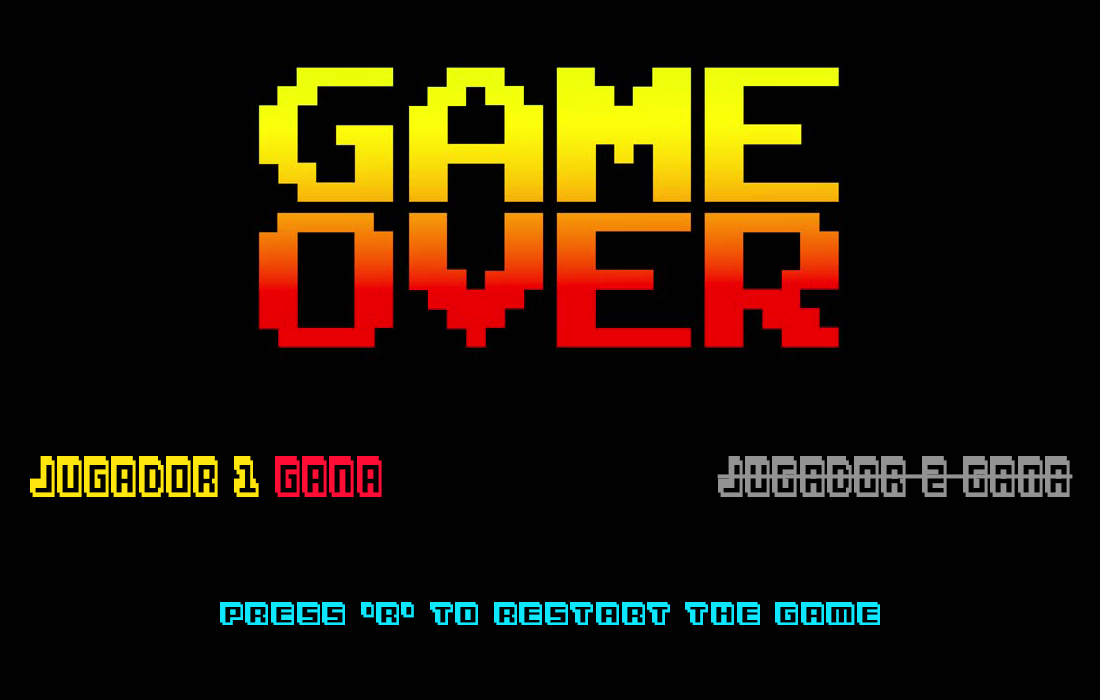
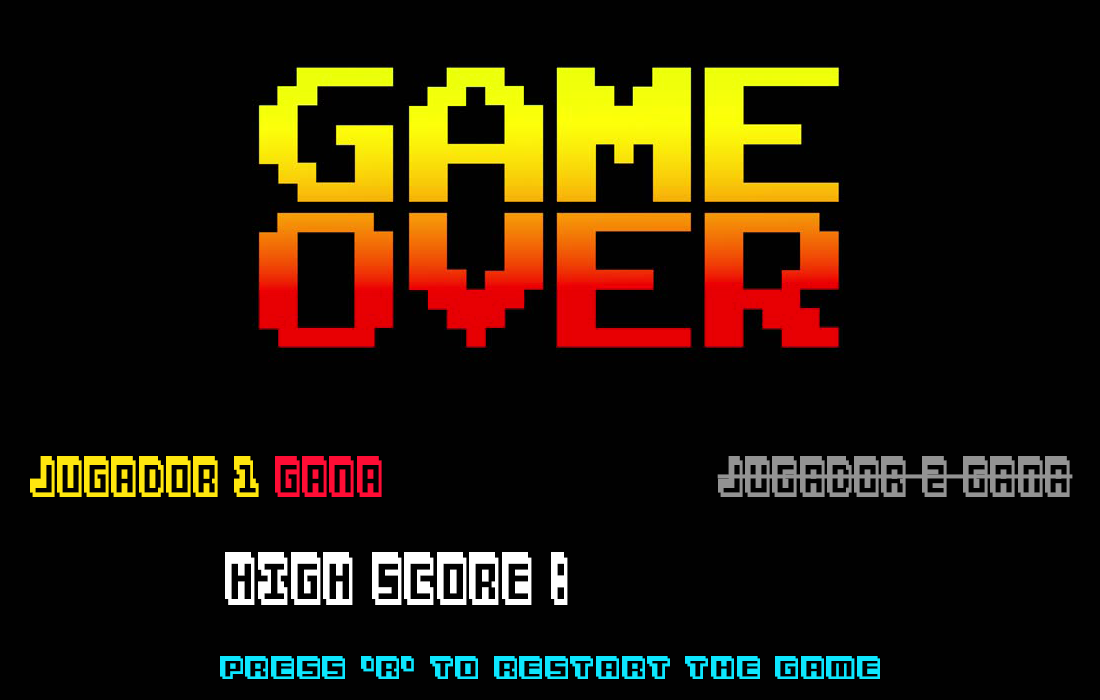
Añadidos High Scores
-Menú de mázimas puntuaciones
-Máxima puntuación al final del juego.

Changed region(s): [[0.1855, 0.78, 0.8036, 0.9], [0.1855, 0.93, 0.8036, 0.99]]

diff --git a/Sagitpawn's Code - Fase 1/menu.js b/Sagitpawn's Code - Fase 1/menu.js
@@ -32,7 +32,7 @@ var menuState = {
         });
         txt.events.onInputDown.add(this.start, this);       //Llamamos a la función start(), cuando clickamos en el texto
 
-        var txt2 = game.add.text(game.world.centerX, 430, 'Salir', optionStyle);
+        var txt2 = game.add.text(game.world.centerX, 400, 'High Scores', optionStyle);
         txt2.anchor.set(0.5);
         txt2.inputEnabled = true;
         txt2.events.onInputOver.add(function (target) {
@@ -41,18 +41,29 @@ var menuState = {
         txt2.events.onInputOut.add(function (target) {
             target.fill = "red";
         });
-        txt2.events.onInputDown.add(this.close, this);
+        txt2.events.onInputDown.add(this.scores, this);
 
-        var optionStyle2 = {font: '25pt  Lucida Console', fill: 'black', align: 'left'};
-        var txt3 = game.add.text(10, 665, 'About us ® ', optionStyle2);
+        var txt3 = game.add.text(game.world.centerX, 500, 'Salir', optionStyle);
+        txt3.anchor.set(0.5);
         txt3.inputEnabled = true;
         txt3.events.onInputOver.add(function (target) {
+            target.fill = "#000000";
+         });
+        txt3.events.onInputOut.add(function (target) {
+            target.fill = "red";
+        });
+        txt3.events.onInputDown.add(this.close, this);
+
+        var optionStyle2 = {font: '25pt  Lucida Console', fill: 'black', align: 'left'};
+        var txt4 = game.add.text(10, 665, 'About us ® ', optionStyle2);
+        txt4.inputEnabled = true;
+        txt4.events.onInputOver.add(function (target) {
             target.fill = "#FFFFFF";
         });
-        txt3.events.onInputOut.add(function (target) {
+        txt4.events.onInputOut.add(function (target) {
             target.fill = "#000000";
         });
-        txt3.events.onInputDown.add(function (target){
+        txt4.events.onInputDown.add(function (target){
             window.open("https://github.com/JorgeMS05/Sagitpawn-s", "_blank")
         });
 
@@ -86,4 +97,9 @@ var menuState = {
     close: function(){
         game.destroy();
     },
+
+    scores: function(){
+        game.state.add('highScore', highScore);
+        game.state.start('highScore');
+    }
 }

diff --git a/Sagitpawn's Code - Fase 1/gameover1.js b/Sagitpawn's Code - Fase 1/gameover1.js
@@ -3,6 +3,8 @@ var finishState1 = {
     gameoversound1:undefined,
     prueba: 0,
     timer: undefined,
+    auxiliar: undefined,
+    puntuacionj1: undefined,
 
     create: function (){
 
@@ -18,7 +20,12 @@ var finishState1 = {
         var cursors = game.input.keyboard.addKey(Phaser.Keyboard.R);
         cursors.onDown.add(this.start, this);
 
+        //Petición para la puntuación del JUGADOR 1
+        playState.auxiliar = "6969";
+
+    
         },
+
 
         start: function(){
             this.gameoversound1.pause();
@@ -32,6 +39,11 @@ var finishState1 = {
         },
         
         update: function(){
+
+            var txt = game.add.text(600, 555, "", optionStyle);
+            var optionStyle = {font: '40pt  Lucida Console', fill: 'white', align: 'left'};
+            txt = game.add.text(600, 555, playState.auxiliar, optionStyle);
+            
 
             img1 = function(){
                 playState.prueba = 0;

diff --git a/Sagitpawn's Code - Fase 1/gameover2.js b/Sagitpawn's Code - Fase 1/gameover2.js
@@ -18,6 +18,9 @@ var finishState2 = {
         var cursors = game.input.keyboard.addKey(Phaser.Keyboard.R);
         cursors.onDown.add(this.start, this);
 
+        //Petición para la puntuación del JUGADOR 1
+        playState.auxiliar = "6969";
+
         },
 
         start: function(){
@@ -33,6 +36,10 @@ var finishState2 = {
         
         
         update: function(){
+
+            var txt = game.add.text(600, 555, "", optionStyle);
+            var optionStyle = {font: '40pt  Lucida Console', fill: 'white', align: 'left'};
+            txt = game.add.text(600, 555, playState.auxiliar, optionStyle);
 
             img1 = function(){             
                 playState.prueba = true;

diff --git a/Sagitpawn's Code - Fase 1/Sagitpawn's.html b/Sagitpawn's Code - Fase 1/Sagitpawn's.html
@@ -20,7 +20,8 @@
         <script type="text/javascript" src="preload.js"></script>   
         <script type="text/javascript" src="menu.js"></script> 
         <script type="text/javascript" src="gameover1.js"></script>
-        <script type="text/javascript" src="gameover2.js"></script>  
+        <script type="text/javascript" src="gameover2.js"></script> 
+        <script type="text/javascript" src="highscore.js"></script>
         <script type="text/javascript" src="Sagitpawn's.js"></script> 
         <script type="text/javascript" src="game.js"></script>
         <script type="text/javascript" src="menu2.js"></script>

diff --git a/Sagitpawn's Code - Fase 1/preload.js b/Sagitpawn's Code - Fase 1/preload.js
@@ -23,6 +23,9 @@ var loadState = {
         game.load.image('go21', 'Imagenes/gameover21.png', 270, 180);
         game.load.image('go22', 'Imagenes/gameover22.png', 270, 180);
 
+        //Imagenes High Score
+        game.load.image("hs", "Imagenes/high score.png")
+
         // Disparos versión 2
         game.load.image('bullet', 'Sprites/spear.png');
         game.load.image('shooter', 'Sprites/disparador1.png'); 
